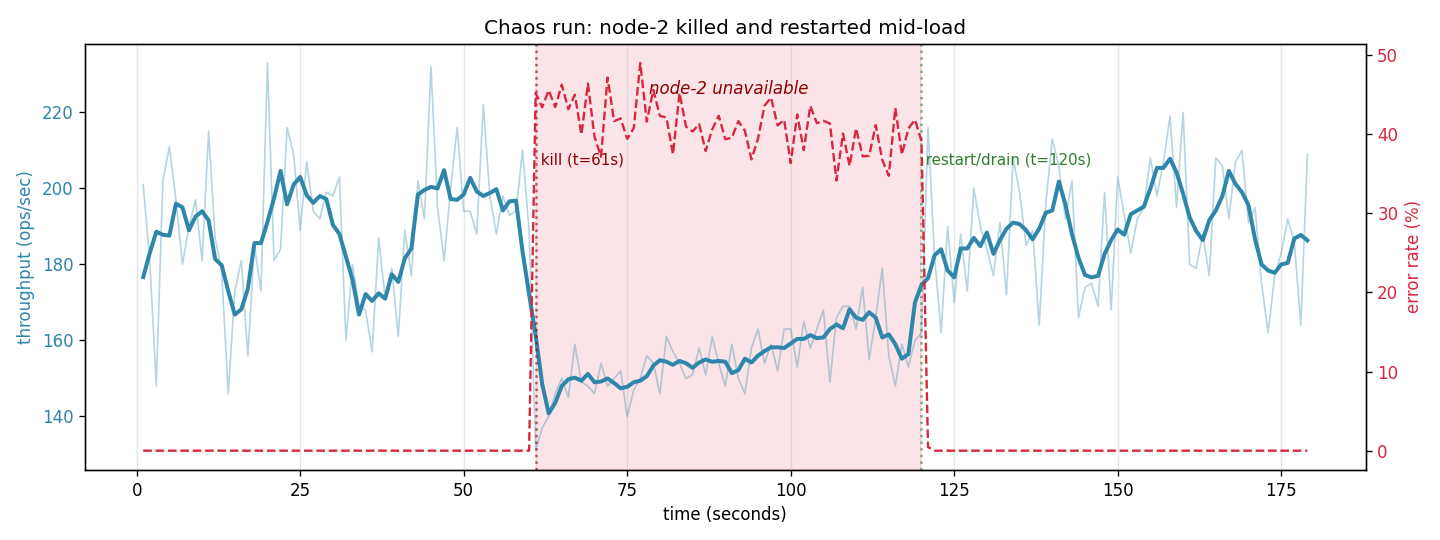
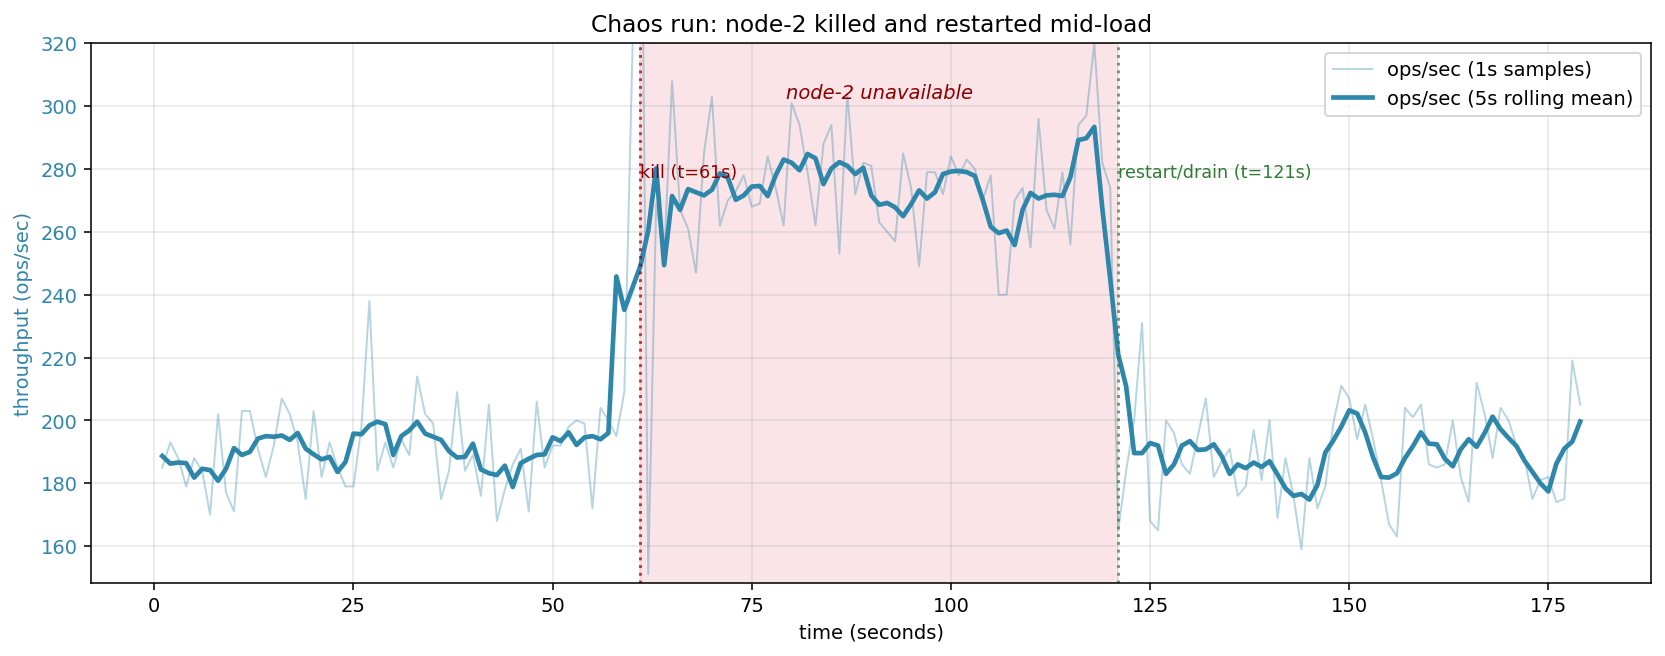
docs(benchmarks): add microbenchmarks link and update charts
- Add a link to per-operation microbenchmarks in the README for detailed `go test -bench` results.
- Update benchmark charts to reflect the latest results for KV chaos, single-node KV, and vector recall QPS scenarios.

Changed region(s): [[0.0, 0.0296, 1.0, 0.9481], [0.4688, 0.9481, 0.5625, 0.9778], [0.9375, 0.237, 0.9688, 0.2667]]

diff --git a/README.md b/README.md
@@ -525,6 +525,8 @@ back to baseline within seconds of the replacement rejoining.
 📊 **[Full benchmark analysis (blog post)](https://ulixert.github.io/posts/theseon-benchmarks/)** — methodology,
 the (3,1,3) null-result debugging story, comparison to hnswlib, and what's next.
 
+🔬 **[Per-operation microbenchmarks](BENCHMARKS.md)** — `go test -bench` numbers for individual operations (memtable, SSTable, MVCC).
+
 **Observability**: Prometheus metrics at `/metrics` (configurable via `--metrics-addr`, default `:9090`).
 Eight core metrics cover KV read/write throughput and latency, compaction rate, SSTable count per level,
 hint drain progress, and replicate-RPC duration.
